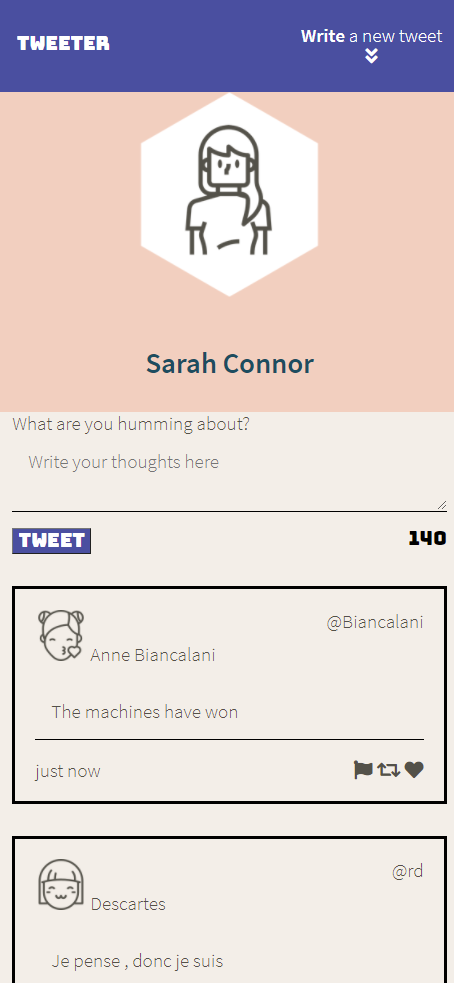
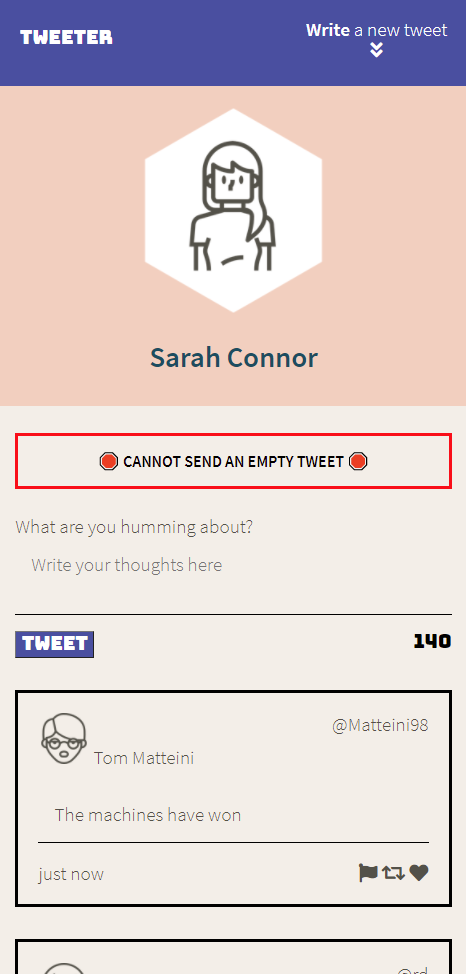
Refactored error messages with new CSS component and locked text area

Changed region(s): [[0.0, 0.0, 1.0, 1.0], [0.8634, 0.9856, 0.9251, 1.0]]

diff --git a/public/scripts/helpers.js b/public/scripts/helpers.js
@@ -65,19 +65,20 @@ const tweetCharError = function(chars) {
     // Sliding up in case back to back errors
     $('.validation-text').slideUp();
 
-    // CSS hardcoded in here. Use jQuery addClass/removeClass features and put in stylesheet
-    // To add boxes and a more elegant looking error message.
-    $('.validation-text').html('🛑 CANNOT SEND AN EMPTY TWEET 🛑')
-      .css('color', 'red')
+    $('.validation-text')
+      .html('🛑 CANNOT SEND AN EMPTY TWEET 🛑')
+      .addClass('error-message')
       .slideDown(500);
+      
     return true;
   } else if (chars > 140) {
     $('.validation-text').slideUp();
 
     $('.validation-text')
       .html('🛑 SEND LESS THAN 140 CHARACTERS 🛑')
-      .css('color', 'red')
+      .addClass('error-message')
       .slideDown(500);
+    
     return true;
   }
   return false;

diff --git a/public/styles/create-tweet.css b/public/styles/create-tweet.css
@@ -1,4 +1,4 @@
-/* Reserved for create tweet component from layout.css */
+/* For create tweet component from layout.css */
 
 .container{
   display: flex;
@@ -24,6 +24,7 @@
 
   border-bottom: 2px solid black;
   padding: 20px;
+  resize: none;
 }
 
 .bottom-tweet {
@@ -37,4 +38,12 @@
 button {
   color: #FFF;    
   background-color: #4056A1;
+}
+
+.error-message {
+  color: red;
+  text-align: center;
+  width: 100%;
+  padding: 1em;
+  border: 4px solid red;
 }

diff --git a/public/index.html b/public/index.html
@@ -69,7 +69,7 @@
     <main class="container">
       <section class="new-tweet">
 
-        <h4 class="validation-text"></h2>
+        <h5 class="validation-text"></h5>
 
         <!-- Submitted form sent to /tweets -->
         <form method="POST" action="/tweets">

diff --git a/public/styles/tweet-layout.css b/public/styles/tweet-layout.css
@@ -1,5 +1,4 @@
-/* Reserved for tweet layout styles from layout.css */
-
+/* For tweet layout styles from layout.css */
 
 .tweet {
   background-color: #f4eee8;

diff --git a/public/styles/media-queries.css b/public/styles/media-queries.css
@@ -1,6 +1,3 @@
-/* Reserved for media-queries from layout.css */
-
-
 @media only screen and (min-width: 768px) {
   
   .flex-divider {

diff --git a/README.md b/README.md
@@ -20,15 +20,9 @@ Tweeter is a simple, single-page Twitter clone. I worked on the front end using 
 - Install all dependencies (using the `npm install` command).
 - Run the development web server using the `node express_server.js` command.
 
-<<<<<<< HEAD
 ## Notes, Bug Fixes, and Features to Implement
-=======
-## Bug Fixes, Features to Work On, and Notes
->>>>>>> 12f6d9a493a71d52ddcc7fc8a9565ed4c991b5d1
 
 - ES5 formatting was consistently used so arrow functions were avoided. This is because I couldn't get one of the jQuery functions working with arrow functions.
 - Working on a desktop+ dimensions on media queries. A max width needs to be specified. I can't imagine this page looking pretty on a widescreen TV.
-- Need to figure out a way to lock the textbox. Currently users can manipulate the size of it.
-- Some minor tweaks and adjustments required to make things look nicer such as: user display header, fonts, nicer looking error messages.
 - The stretch components of leading to top of page (should be able to do by referencing local hrefs) and a toggle for the textarea.
 
